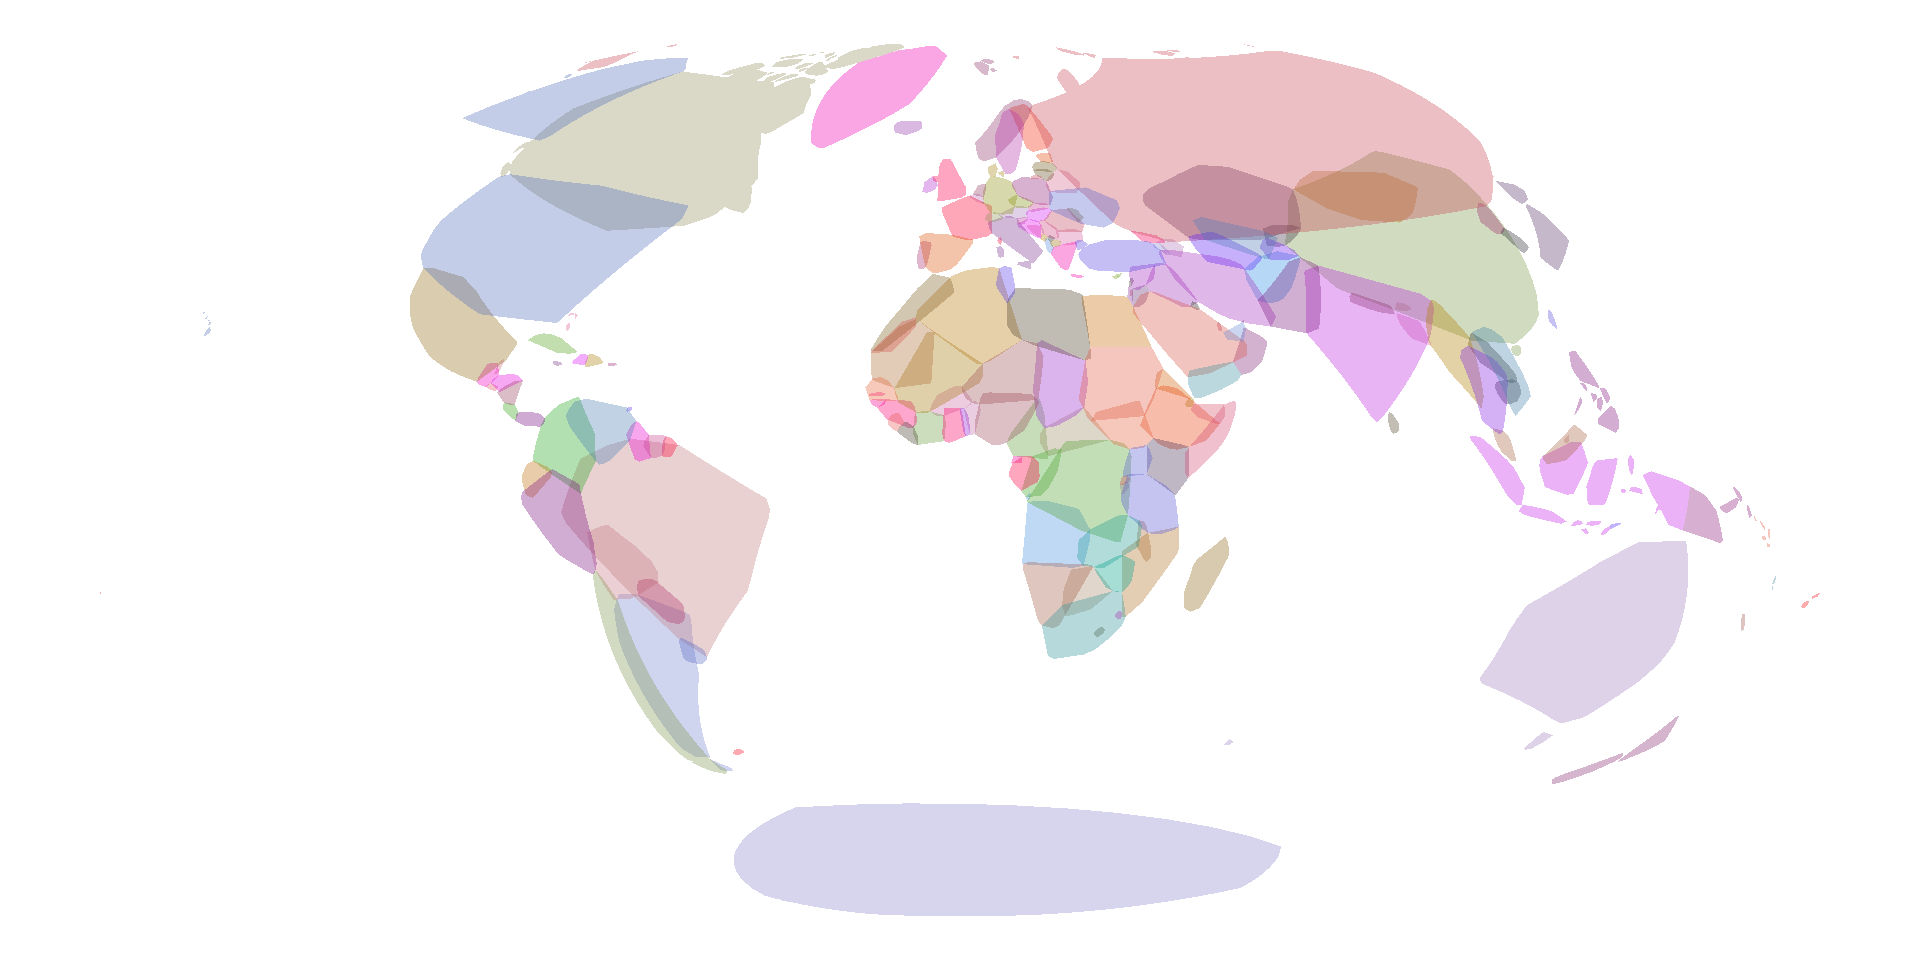
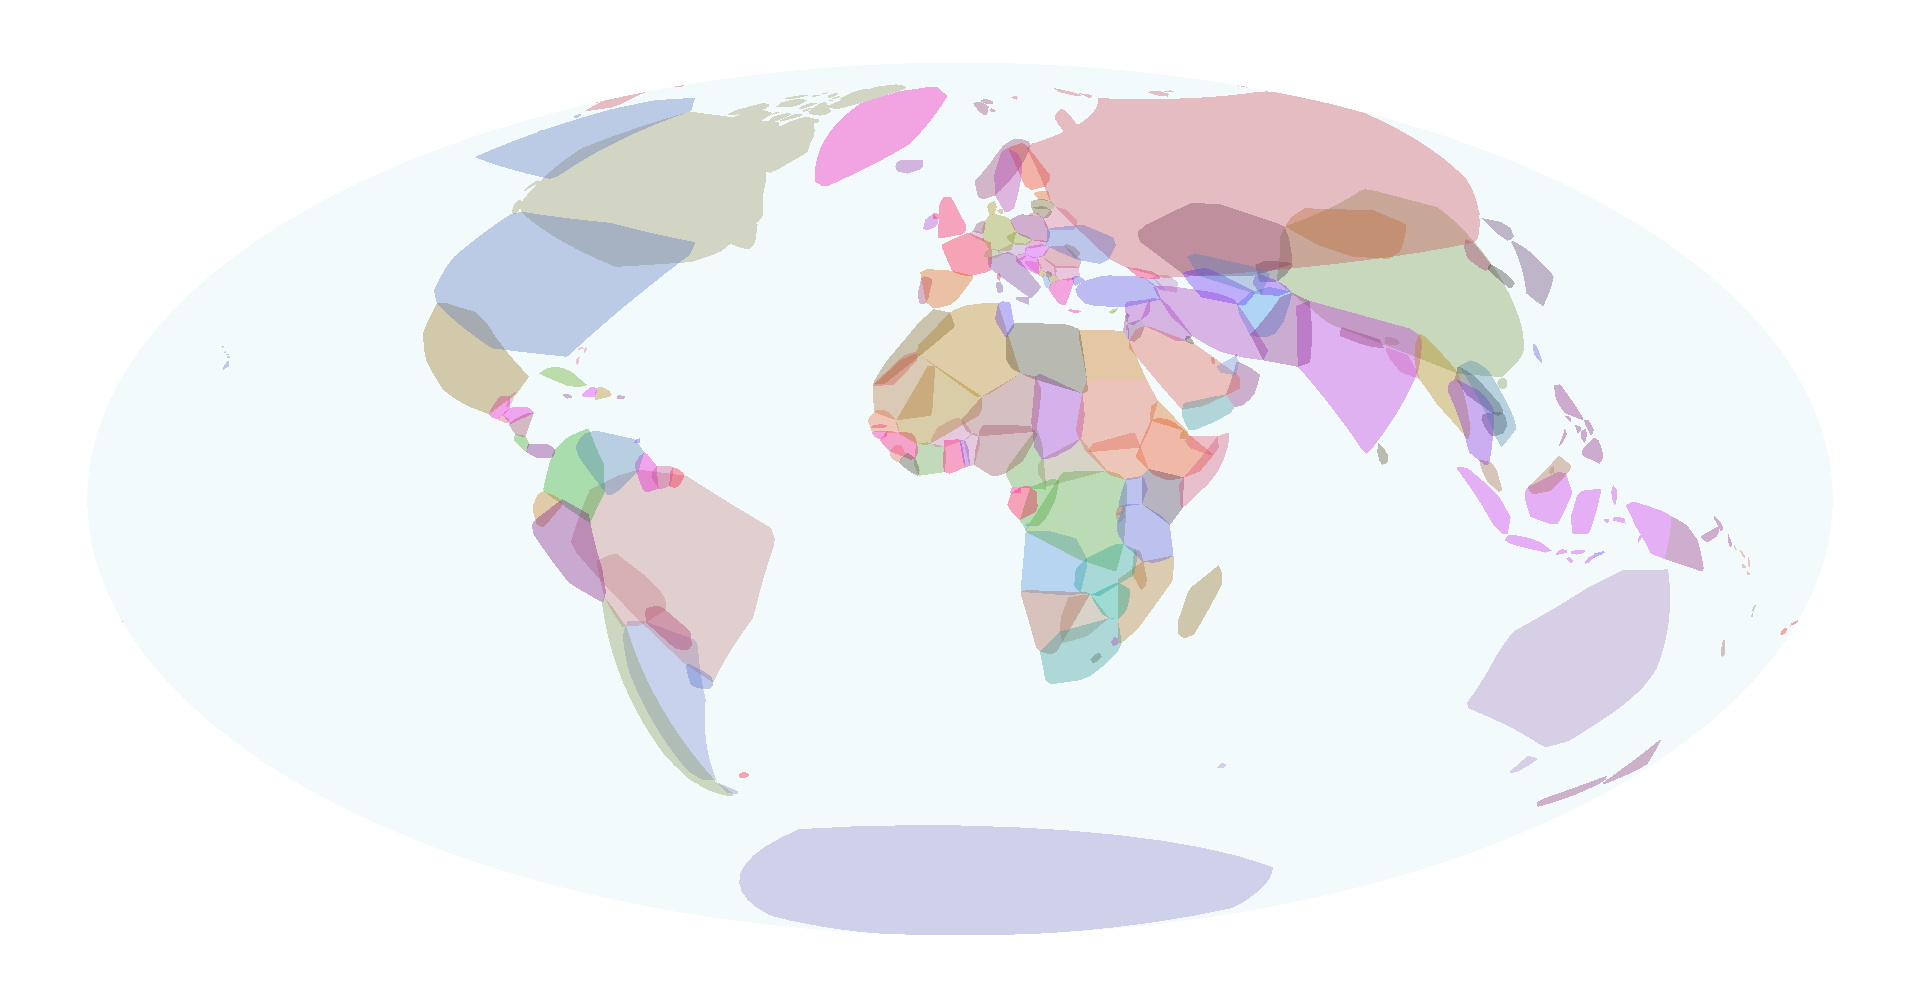
added world disc to map 30

diff --git a/docs/maps/30-my-favourite.html b/docs/maps/30-my-favourite.html
@@ -393,7 +393,8 @@ pre > code.sourceCode > span > a:first-child::before { text-decoration: underlin
 <h2 class="anchored" data-anchor-id="data-wrangling">Data wrangling</h2>
 <p>The dataset I used is the <code>tmap</code> built in <code>World</code> dataset, cast to simple polygons.</p>
 <p>Making a bounding box layer using <code>sf</code> is fiddly, because <code>st_bbox</code> applies to the whole layer, not to each individual polygon. For that, I need to use <code>lapply</code>. Then, because bounding boxes are not spatial objects but a vector <code>c(xmin, ymin, xmax, ymax)</code> I have to do some more processing steps to make them back into polygons, and rejoin the source data. The <code>unlist(recursive = FALSE)</code> step is key here for unpacking the list of polygons so they can be collected back into a simple feature collection. Also important for the reprojection is densifying the bounding boxes so we follow parallels and meridians. I do this using <code>smoothr::densify</code>. The last group by step (in spatial terms a ‘dissolve’) removes some oddities like offshore island bounding boxes entirely bounded by the ‘parent’ geometry bounding box.</p>
-<div class="cell" data-hash="30-my-favourite_cache/html/unnamed-chunk-2_04c2fdd8bb71ad96eb5a5313bdb036dd">
+<p>I’ve also made a ‘disc’ polygon to show the ‘globe’. This is not as simple to do as you might imagine, and has been complicated recently by the advent of the S2 spherical geometry stuff in <em>R</em>. Generally a good thing, S2 knows that that ‘disc’ has zero area (think about it…) and so I instead have to approach the whole process sideways on and make an ellipse of the extent of the projection I intend to use.</p>
+<div class="cell" data-hash="30-my-favourite_cache/html/unnamed-chunk-2_f0881d51c34737ba4475a4bffcd08b7f">
 <details>
 <summary>Code</summary>
 <div class="sourceCode cell-code" id="cb2"><pre class="sourceCode r code-with-copy"><code class="sourceCode r"><span id="cb2-1"><a href="#cb2-1" aria-hidden="true" tabindex="-1"></a><span class="fu">data</span>(<span class="st">"World"</span>)</span>
@@ -408,24 +409,33 @@ pre > code.sourceCode > span > a:first-child::before { text-decoration: underlin
 <span id="cb2-10"><a href="#cb2-10" aria-hidden="true" tabindex="-1"></a>  <span class="fu">st_sfc</span>() <span class="sc">%&gt;%</span></span>
 <span id="cb2-11"><a href="#cb2-11" aria-hidden="true" tabindex="-1"></a>  <span class="fu">st_sf</span>(<span class="at">crs =</span> <span class="dv">4326</span>) <span class="sc">%&gt;%</span></span>
 <span id="cb2-12"><a href="#cb2-12" aria-hidden="true" tabindex="-1"></a>  <span class="fu">densify</span>() <span class="sc">%&gt;%</span></span>
-<span id="cb2-13"><a href="#cb2-13" aria-hidden="true" tabindex="-1"></a>  <span class="fu">st_transform</span>(<span class="st">"+proj=hammer"</span>) <span class="sc">%&gt;%</span></span>
+<span id="cb2-13"><a href="#cb2-13" aria-hidden="true" tabindex="-1"></a>  <span class="fu">st_transform</span>(<span class="st">"+proj=cea"</span>) <span class="sc">%&gt;%</span></span>
 <span id="cb2-14"><a href="#cb2-14" aria-hidden="true" tabindex="-1"></a>  <span class="fu">bind_cols</span>(World <span class="sc">%&gt;%</span> <span class="fu">st_drop_geometry</span>()) <span class="sc">%&gt;%</span></span>
 <span id="cb2-15"><a href="#cb2-15" aria-hidden="true" tabindex="-1"></a>  <span class="fu">group_by</span>(name) <span class="sc">%&gt;%</span></span>
-<span id="cb2-16"><a href="#cb2-16" aria-hidden="true" tabindex="-1"></a>  <span class="fu">summarise</span>()</span></code><button title="Copy to Clipboard" class="code-copy-button"><i class="bi"></i></button></pre></div>
+<span id="cb2-16"><a href="#cb2-16" aria-hidden="true" tabindex="-1"></a>  <span class="fu">summarise</span>()</span>
+<span id="cb2-17"><a href="#cb2-17" aria-hidden="true" tabindex="-1"></a></span>
+<span id="cb2-18"><a href="#cb2-18" aria-hidden="true" tabindex="-1"></a>disc <span class="ot">&lt;-</span> <span class="fu">st_point</span>(<span class="fu">c</span>(<span class="dv">0</span>, <span class="dv">0</span>)) <span class="sc">%&gt;%</span></span>
+<span id="cb2-19"><a href="#cb2-19" aria-hidden="true" tabindex="-1"></a>  <span class="fu">st_buffer</span>(<span class="dv">1</span>, <span class="at">nQuadSegs =</span> <span class="dv">90</span>)</span>
+<span id="cb2-20"><a href="#cb2-20" aria-hidden="true" tabindex="-1"></a>disc <span class="ot">&lt;-</span> disc <span class="sc">*</span> <span class="fu">matrix</span>(<span class="fu">c</span>(<span class="dv">18040096</span>, <span class="dv">0</span>, <span class="dv">0</span>, <span class="dv">9020048</span>), <span class="dv">2</span>, <span class="dv">2</span>)</span>
+<span id="cb2-21"><a href="#cb2-21" aria-hidden="true" tabindex="-1"></a>disc <span class="ot">&lt;-</span> disc <span class="sc">%&gt;%</span></span>
+<span id="cb2-22"><a href="#cb2-22" aria-hidden="true" tabindex="-1"></a>  <span class="fu">st_sfc</span>() <span class="sc">%&gt;%</span></span>
+<span id="cb2-23"><a href="#cb2-23" aria-hidden="true" tabindex="-1"></a>  <span class="fu">st_sf</span>(<span class="at">crs =</span> <span class="st">"+proj=hammer"</span>)</span></code><button title="Copy to Clipboard" class="code-copy-button"><i class="bi"></i></button></pre></div>
 </details>
 </div>
 </section>
 <section id="the-maps" class="level2">
 <h2 class="anchored" data-anchor-id="the-maps">The maps</h2>
 <p>The map itself is simple. I decided to colour by country, not by continent.</p>
-<div class="cell" data-hash="30-my-favourite_cache/html/unnamed-chunk-3_2563308574f83faedfe54babea05c695">
-<div class="sourceCode cell-code" id="cb3"><pre class="sourceCode r code-with-copy"><code class="sourceCode r"><span id="cb3-1"><a href="#cb3-1" aria-hidden="true" tabindex="-1"></a><span class="fu">tm_shape</span>(world_bboxs) <span class="sc">+</span> </span>
-<span id="cb3-2"><a href="#cb3-2" aria-hidden="true" tabindex="-1"></a>  <span class="fu">tm_fill</span>(</span>
-<span id="cb3-3"><a href="#cb3-3" aria-hidden="true" tabindex="-1"></a>    <span class="at">fill =</span> <span class="st">"name"</span>,</span>
-<span id="cb3-4"><a href="#cb3-4" aria-hidden="true" tabindex="-1"></a>    <span class="at">fill.scale =</span> <span class="fu">tm_scale_categorical</span>(<span class="at">values =</span> <span class="st">"dark24"</span>),</span>
-<span id="cb3-5"><a href="#cb3-5" aria-hidden="true" tabindex="-1"></a>    <span class="at">fill.legend =</span> <span class="fu">tm_legend_hide</span>(),</span>
-<span id="cb3-6"><a href="#cb3-6" aria-hidden="true" tabindex="-1"></a>    <span class="at">fill_alpha =</span> <span class="fl">0.35</span>) <span class="sc">+</span> </span>
-<span id="cb3-7"><a href="#cb3-7" aria-hidden="true" tabindex="-1"></a>  <span class="fu">tm_layout</span>(<span class="at">frame =</span> <span class="cn">FALSE</span>)</span></code><button title="Copy to Clipboard" class="code-copy-button"><i class="bi"></i></button></pre></div>
+<div class="cell" data-hash="30-my-favourite_cache/html/unnamed-chunk-3_74bfe37087c961a62445c7ef5ecd7a38">
+<div class="sourceCode cell-code" id="cb3"><pre class="sourceCode r code-with-copy"><code class="sourceCode r"><span id="cb3-1"><a href="#cb3-1" aria-hidden="true" tabindex="-1"></a><span class="fu">tm_shape</span>(disc) <span class="sc">+</span></span>
+<span id="cb3-2"><a href="#cb3-2" aria-hidden="true" tabindex="-1"></a>  <span class="fu">tm_fill</span>(<span class="at">fill =</span> <span class="st">"powderblue"</span>, <span class="at">fill_alpha =</span> <span class="fl">0.15</span>) <span class="sc">+</span></span>
+<span id="cb3-3"><a href="#cb3-3" aria-hidden="true" tabindex="-1"></a>  <span class="fu">tm_shape</span>(world_bboxs) <span class="sc">+</span> </span>
+<span id="cb3-4"><a href="#cb3-4" aria-hidden="true" tabindex="-1"></a>  <span class="fu">tm_fill</span>(</span>
+<span id="cb3-5"><a href="#cb3-5" aria-hidden="true" tabindex="-1"></a>    <span class="at">fill =</span> <span class="st">"name"</span>,</span>
+<span id="cb3-6"><a href="#cb3-6" aria-hidden="true" tabindex="-1"></a>    <span class="at">fill.scale =</span> <span class="fu">tm_scale_categorical</span>(<span class="at">values =</span> <span class="st">"dark24"</span>),</span>
+<span id="cb3-7"><a href="#cb3-7" aria-hidden="true" tabindex="-1"></a>    <span class="at">fill.legend =</span> <span class="fu">tm_legend_hide</span>(),</span>
+<span id="cb3-8"><a href="#cb3-8" aria-hidden="true" tabindex="-1"></a>    <span class="at">fill_alpha =</span> <span class="fl">0.35</span>) <span class="sc">+</span> </span>
+<span id="cb3-9"><a href="#cb3-9" aria-hidden="true" tabindex="-1"></a>  <span class="fu">tm_layout</span>(<span class="at">frame =</span> <span class="cn">FALSE</span>)</span></code><button title="Copy to Clipboard" class="code-copy-button"><i class="bi"></i></button></pre></div>
 <div class="cell-output-display">
 <div class="quarto-figure quarto-figure-center">
 <figure class="figure">
@@ -440,7 +450,7 @@ pre > code.sourceCode > span > a:first-child::before { text-decoration: underlin
 <p>Convex hulls are easier, because the <code>st_convex_hull</code> function applies to each polygon, not the whole collection. For balance, I’ll map this using <code>ggplot2</code>.</p>
 <p>Here, we encounter one of the minor annoyances of <code>ggplot2</code>. There are 177 distinct country names in the data. If you try to map these with a discrete colour palette <code>ggplot2</code> is strict about that mapping: if the palette only has 24 colours defined (as in this case) and you have 177 things to map, it won’t allow it. To get around this, I make a unique integer label for each country name, and apply the colour palette in continuous fashion.</p>
 <p>Just one of those wrinkles of working with an ‘opinionated’ package like <code>ggplot2</code>. A more generous adjective would be ‘principled’ and when it comes to visualisation, <code>ggplot2</code> is definitely more principled than I am…</p>
-<div class="cell" data-hash="30-my-favourite_cache/html/unnamed-chunk-4_a5c6fe914c177cee3363170665fbe59c">
+<div class="cell" data-hash="30-my-favourite_cache/html/unnamed-chunk-4_d910081ced65a4d9bd45b03ba100d7b0">
 <div class="sourceCode cell-code" id="cb4"><pre class="sourceCode r code-with-copy"><code class="sourceCode r"><span id="cb4-1"><a href="#cb4-1" aria-hidden="true" tabindex="-1"></a>name_id <span class="ot">&lt;-</span> <span class="fu">data.frame</span>(<span class="at">name =</span> <span class="fu">unique</span>(World<span class="sc">$</span>name)) <span class="sc">%&gt;%</span></span>
 <span id="cb4-2"><a href="#cb4-2" aria-hidden="true" tabindex="-1"></a>  <span class="fu">mutate</span>(<span class="at">id =</span> <span class="fu">row_number</span>())</span>
 <span id="cb4-3"><a href="#cb4-3" aria-hidden="true" tabindex="-1"></a></span>
@@ -452,11 +462,13 @@ pre > code.sourceCode > span > a:first-child::before { text-decoration: underlin
 <span id="cb4-9"><a href="#cb4-9" aria-hidden="true" tabindex="-1"></a>  <span class="fu">summarise</span>() <span class="sc">%&gt;%</span></span>
 <span id="cb4-10"><a href="#cb4-10" aria-hidden="true" tabindex="-1"></a>  <span class="fu">left_join</span>(name_id)</span>
 <span id="cb4-11"><a href="#cb4-11" aria-hidden="true" tabindex="-1"></a></span>
-<span id="cb4-12"><a href="#cb4-12" aria-hidden="true" tabindex="-1"></a><span class="fu">ggplot</span>(world_hulls) <span class="sc">+</span> </span>
-<span id="cb4-13"><a href="#cb4-13" aria-hidden="true" tabindex="-1"></a>  <span class="fu">geom_sf</span>(<span class="fu">aes</span>(<span class="at">fill =</span> id), <span class="at">linewidth =</span> <span class="dv">0</span>, <span class="at">alpha =</span> <span class="fl">0.35</span>) <span class="sc">+</span> </span>
-<span id="cb4-14"><a href="#cb4-14" aria-hidden="true" tabindex="-1"></a>  <span class="fu">scale_fill_continuous_c4a_seq</span>(<span class="st">"dark24"</span>) <span class="sc">+</span></span>
-<span id="cb4-15"><a href="#cb4-15" aria-hidden="true" tabindex="-1"></a>  <span class="fu">guides</span>(<span class="at">fill =</span> <span class="st">"none"</span>) <span class="sc">+</span> </span>
-<span id="cb4-16"><a href="#cb4-16" aria-hidden="true" tabindex="-1"></a>  <span class="fu">theme_void</span>()</span></code><button title="Copy to Clipboard" class="code-copy-button"><i class="bi"></i></button></pre></div>
+<span id="cb4-12"><a href="#cb4-12" aria-hidden="true" tabindex="-1"></a><span class="fu">ggplot</span>(disc) <span class="sc">+</span></span>
+<span id="cb4-13"><a href="#cb4-13" aria-hidden="true" tabindex="-1"></a>  <span class="fu">geom_sf</span>(<span class="at">fill =</span> <span class="st">"powderblue"</span>, <span class="at">linewidth =</span> <span class="dv">0</span>, <span class="at">alpha =</span> <span class="fl">0.15</span>) <span class="sc">+</span></span>
+<span id="cb4-14"><a href="#cb4-14" aria-hidden="true" tabindex="-1"></a>  <span class="fu">geom_sf</span>(<span class="at">data =</span> world_hulls, </span>
+<span id="cb4-15"><a href="#cb4-15" aria-hidden="true" tabindex="-1"></a>          <span class="fu">aes</span>(<span class="at">fill =</span> id), <span class="at">linewidth =</span> <span class="dv">0</span>, <span class="at">alpha =</span> <span class="fl">0.35</span>) <span class="sc">+</span> </span>
+<span id="cb4-16"><a href="#cb4-16" aria-hidden="true" tabindex="-1"></a>  <span class="fu">scale_fill_continuous_c4a_seq</span>(<span class="st">"dark24"</span>) <span class="sc">+</span></span>
+<span id="cb4-17"><a href="#cb4-17" aria-hidden="true" tabindex="-1"></a>  <span class="fu">guides</span>(<span class="at">fill =</span> <span class="st">"none"</span>) <span class="sc">+</span></span>
+<span id="cb4-18"><a href="#cb4-18" aria-hidden="true" tabindex="-1"></a>  <span class="fu">theme_void</span>()</span></code><button title="Copy to Clipboard" class="code-copy-button"><i class="bi"></i></button></pre></div>
 <div class="cell-output-display">
 <div class="quarto-figure quarto-figure-center">
 <figure class="figure">
@@ -713,7 +725,7 @@ window.document.addEventListener("DOMContentLoaded", function (event) {
   </div>
 </nav>
 </div> <!-- /content -->
-<script>var lightboxQuarto = GLightbox({"openEffect":"zoom","loop":true,"selector":".lightbox","descPosition":"bottom","closeEffect":"zoom"});</script>
+<script>var lightboxQuarto = GLightbox({"selector":".lightbox","descPosition":"bottom","closeEffect":"zoom","openEffect":"zoom","loop":true});</script>
 
 
 

diff --git a/docs/index.html b/docs/index.html
@@ -956,7 +956,7 @@ A classic theme for a map.
 </div>
 </a>
 </div>
-<div class="g-col-1" data-index="29" data-listing-file-modified-sort="1700686830467" data-listing-reading-time-sort="3">
+<div class="g-col-1" data-index="29" data-listing-file-modified-sort="1700701902353" data-listing-reading-time-sort="4">
 <a href="./maps/30-my-favourite.html" class="quarto-grid-link">
 <div class="quarto-grid-item card h-100 card-left">
 <p class="card-img-top"><img src="maps/30-my-favourite_files/figure-html/unnamed-chunk-3-1.png" style="height: 150px;"  class="thumbnail-image card-img"/></p>

diff --git a/docs/maps/01-points.html b/docs/maps/01-points.html
@@ -739,7 +739,7 @@ window.document.addEventListener("DOMContentLoaded", function (event) {
   </div>
 </nav>
 </div> <!-- /content -->
-<script>var lightboxQuarto = GLightbox({"selector":".lightbox","openEffect":"zoom","closeEffect":"zoom","loop":true,"descPosition":"bottom"});</script>
+<script>var lightboxQuarto = GLightbox({"closeEffect":"zoom","selector":".lightbox","loop":true,"openEffect":"zoom","descPosition":"bottom"});</script>
 
 
 

diff --git a/docs/maps/02-lines.html b/docs/maps/02-lines.html
@@ -701,7 +701,7 @@ window.document.addEventListener("DOMContentLoaded", function (event) {
   </div>
 </nav>
 </div> <!-- /content -->
-<script>var lightboxQuarto = GLightbox({"descPosition":"bottom","closeEffect":"zoom","selector":".lightbox","loop":true,"openEffect":"zoom"});</script>
+<script>var lightboxQuarto = GLightbox({"openEffect":"zoom","closeEffect":"zoom","descPosition":"bottom","selector":".lightbox","loop":true});</script>
 
 
 

diff --git a/docs/maps/03-polygons.html b/docs/maps/03-polygons.html
@@ -702,7 +702,7 @@ window.document.addEventListener("DOMContentLoaded", function (event) {
   </div>
 </nav>
 </div> <!-- /content -->
-<script>var lightboxQuarto = GLightbox({"closeEffect":"zoom","selector":".lightbox","descPosition":"bottom","openEffect":"zoom","loop":true});</script>
+<script>var lightboxQuarto = GLightbox({"openEffect":"zoom","selector":".lightbox","descPosition":"bottom","loop":true,"closeEffect":"zoom"});</script>
 
 
 

diff --git a/docs/maps/04-bad-map.html b/docs/maps/04-bad-map.html
@@ -710,7 +710,7 @@ window.document.addEventListener("DOMContentLoaded", function (event) {
   </div>
 </nav>
 </div> <!-- /content -->
-<script>var lightboxQuarto = GLightbox({"loop":true,"descPosition":"bottom","closeEffect":"zoom","selector":".lightbox","openEffect":"zoom"});</script>
+<script>var lightboxQuarto = GLightbox({"descPosition":"bottom","openEffect":"zoom","selector":".lightbox","closeEffect":"zoom","loop":true});</script>
 
 
 

diff --git a/docs/maps/05-analog-map.html b/docs/maps/05-analog-map.html
@@ -696,7 +696,7 @@ window.document.addEventListener("DOMContentLoaded", function (event) {
   </div>
 </nav>
 </div> <!-- /content -->
-<script>var lightboxQuarto = GLightbox({"selector":".lightbox","closeEffect":"zoom","openEffect":"zoom","loop":true,"descPosition":"bottom"});</script>
+<script>var lightboxQuarto = GLightbox({"descPosition":"bottom","selector":".lightbox","closeEffect":"zoom","loop":true,"openEffect":"zoom"});</script>
 
 
 

diff --git a/docs/maps/06-asia.html b/docs/maps/06-asia.html
@@ -710,7 +710,7 @@ window.document.addEventListener("DOMContentLoaded", function (event) {
   </div>
 </nav>
 </div> <!-- /content -->
-<script>var lightboxQuarto = GLightbox({"openEffect":"zoom","closeEffect":"zoom","descPosition":"bottom","loop":true,"selector":".lightbox"});</script>
+<script>var lightboxQuarto = GLightbox({"closeEffect":"zoom","loop":true,"descPosition":"bottom","openEffect":"zoom","selector":".lightbox"});</script>
 
 
 

diff --git a/docs/maps/07-navigation.html b/docs/maps/07-navigation.html
@@ -757,7 +757,7 @@ window.document.addEventListener("DOMContentLoaded", function (event) {
   </div>
 </nav>
 </div> <!-- /content -->
-<script>var lightboxQuarto = GLightbox({"openEffect":"zoom","loop":true,"selector":".lightbox","descPosition":"bottom","closeEffect":"zoom"});</script>
+<script>var lightboxQuarto = GLightbox({"openEffect":"zoom","descPosition":"bottom","selector":".lightbox","loop":true,"closeEffect":"zoom"});</script>
 
 
 

diff --git a/docs/maps/08-africa.html b/docs/maps/08-africa.html
@@ -702,7 +702,7 @@ window.document.addEventListener("DOMContentLoaded", function (event) {
   </div>
 </nav>
 </div> <!-- /content -->
-<script>var lightboxQuarto = GLightbox({"openEffect":"zoom","loop":true,"descPosition":"bottom","closeEffect":"zoom","selector":".lightbox"});</script>
+<script>var lightboxQuarto = GLightbox({"descPosition":"bottom","loop":true,"selector":".lightbox","closeEffect":"zoom","openEffect":"zoom"});</script>
 
 
 

diff --git a/docs/maps/09-hexes.html b/docs/maps/09-hexes.html
@@ -747,7 +747,7 @@ window.document.addEventListener("DOMContentLoaded", function (event) {
   </div>
 </nav>
 </div> <!-- /content -->
-<script>var lightboxQuarto = GLightbox({"selector":".lightbox","openEffect":"zoom","descPosition":"bottom","closeEffect":"zoom","loop":true});</script>
+<script>var lightboxQuarto = GLightbox({"descPosition":"bottom","openEffect":"zoom","loop":true,"selector":".lightbox","closeEffect":"zoom"});</script>
 
 
 

diff --git a/docs/maps/10-north-america.html b/docs/maps/10-north-america.html
@@ -698,7 +698,7 @@ window.document.addEventListener("DOMContentLoaded", function (event) {
   </div>
 </nav>
 </div> <!-- /content -->
-<script>var lightboxQuarto = GLightbox({"loop":true,"openEffect":"zoom","closeEffect":"zoom","descPosition":"bottom","selector":".lightbox"});</script>
+<script>var lightboxQuarto = GLightbox({"selector":".lightbox","loop":true,"closeEffect":"zoom","openEffect":"zoom","descPosition":"bottom"});</script>
 
 
 
